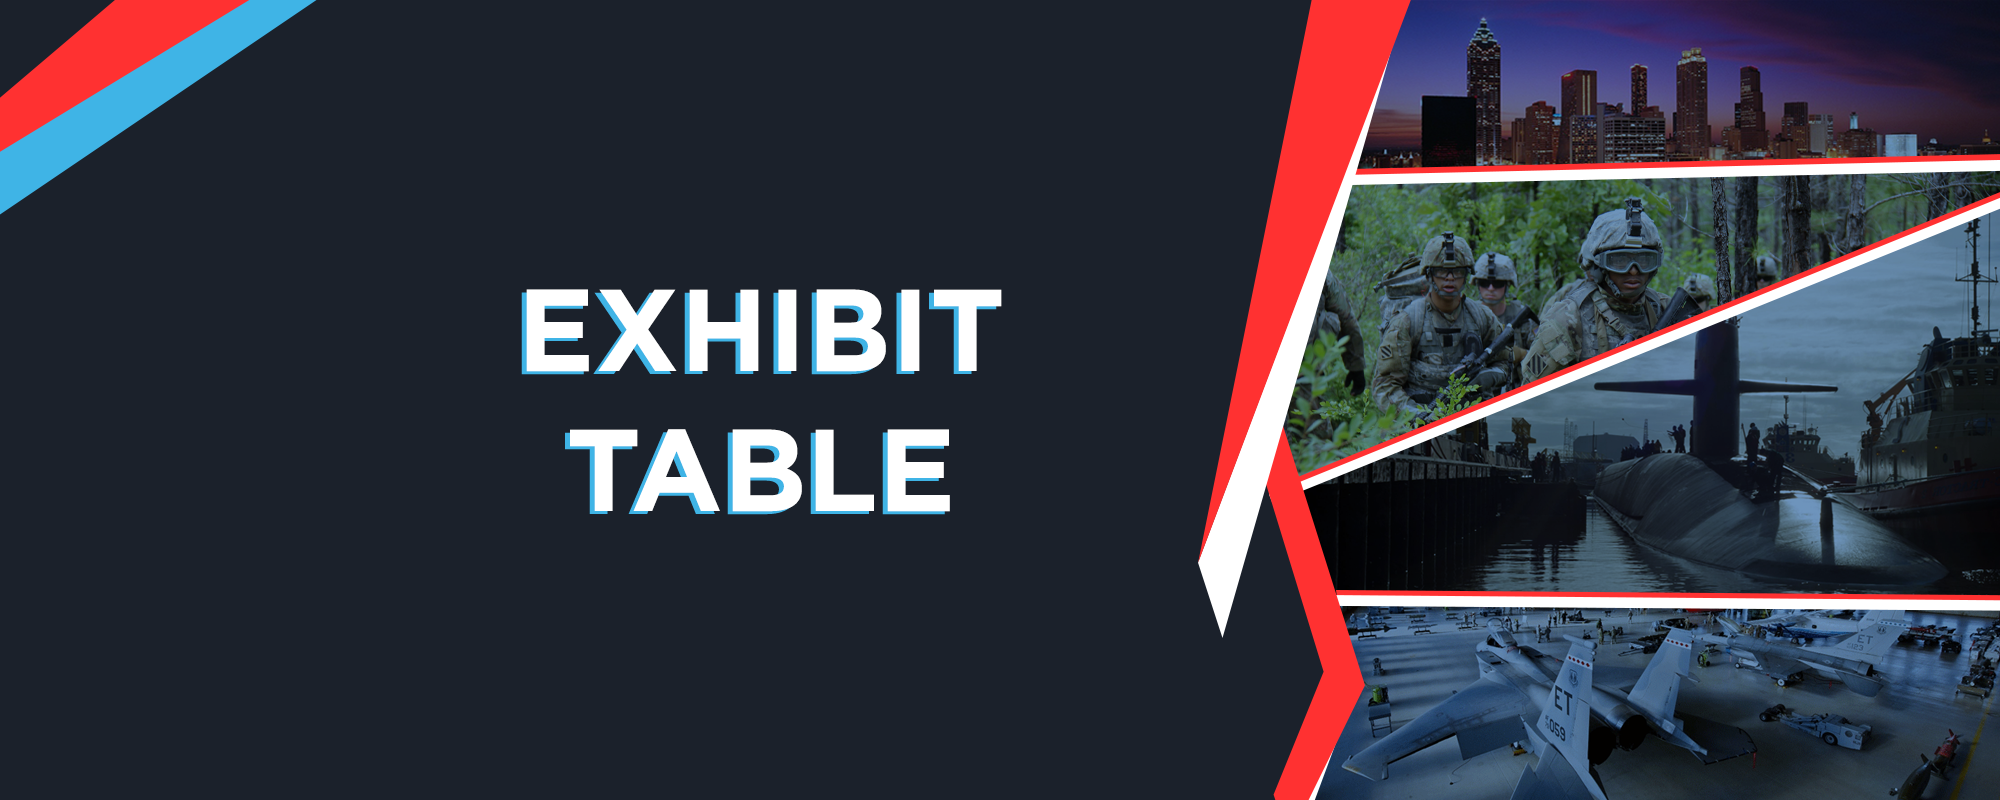
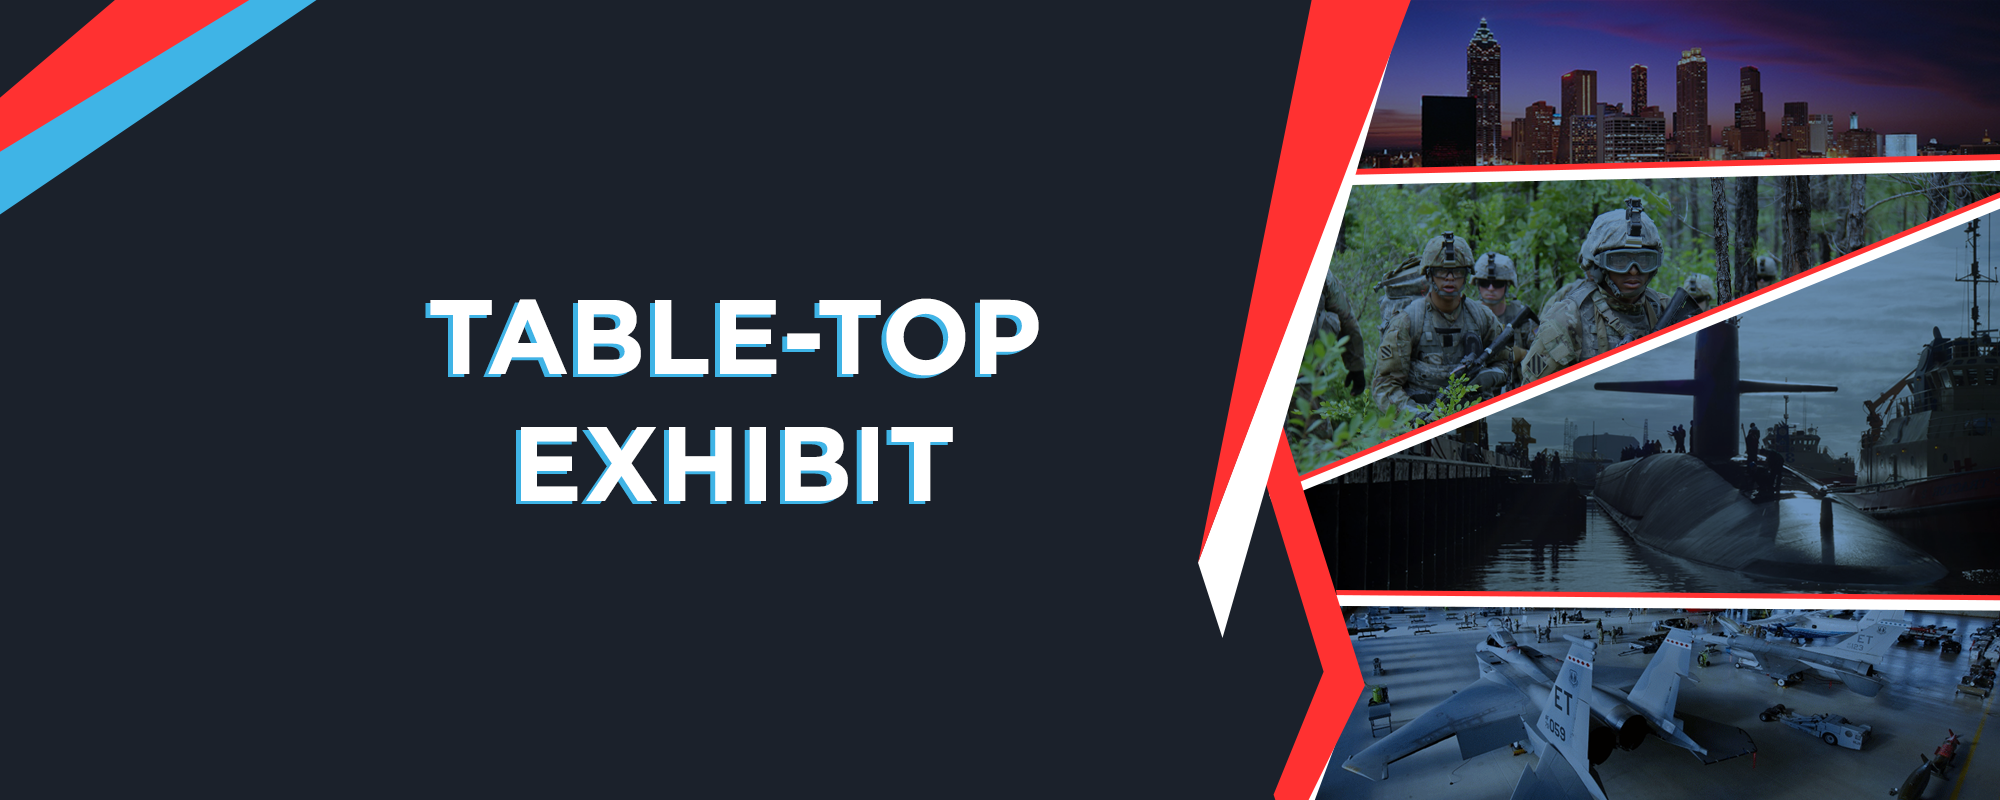
Updated schedules & registration perks

Changed region(s): [[0.217, 0.3438, 0.527, 0.4688], [0.248, 0.5312, 0.496, 0.6562]]

diff --git a/src/constants/schedules.tsx b/src/constants/schedules.tsx
@@ -109,36 +109,65 @@ export const SCHEDULES = [
         id: 2,
         schedule: [
             {
+                date: "March 17th, 2025",
+                items: [
+                    {
+                        time: "3:00 PM - 6:00 PM",
+                        title: "Exhibitor Set-up",
+                    },
+                ],
+            },
+            {
                 date: "March 18th, 2025",
                 items: [
                     {
                         time: "7:30 AM - 8:30 AM",
-                        title: "Registration & Networking Breakfast",
+                        title: "Registration & Networking Breakfast, On-Site Sign-up for Matchmaking Sessions",
                         // location: "Ballroom and Foyer",
                     },
                     {
-                        time: "8:30 AM - 12:30 PM",
+                        time: "8:30 AM - 10:00 AM",
+                        title: "General Sessions",
+                        // location: "Ballroom",
+                    },
+                    {
+                        time: "10:00 AM - 10:15 AM",
+                        title: "Networking Break",
+                        // location: "Fourth Estate Meeting Room"
+                    },
+                    {
+                        time: "10:15 AM - 12:30 PM",
                         title: "General Sessions",
                         // location: "Ballroom",
                     },
                     {
                         time: "12:30 PM - 1:30 PM",
-                        title: "Networking Lunch",
+                        title: "Networking Lunch for Speakers, Sponsors, Exhibitors, and Attendees",
                         // location: "Ballroom",
                     },
                     {
-                        time: "1:30 PM - 4:00 PM",
+                        time: "1:30 PM - 3:00 PM",
                         title: "General Sessions",
                         // location: "Ballroom",
                     },
                     {
-                        time: "4:00 PM - 5:00 PM",
+                        time: "3:00 PM - 3:15 PM",
+                        title: "Networking Break",
+                        // location: "Fourth Estate Meeting Room"
+                    },
+                    {
+                        time: "3:15 PM - 4:00 PM",
+                        title: "General Sessions",
+                        // location: "Ballroom",
+                    },
+                    {
+                        time: "4:00 PM - 5:30 PM",
                         title: "Matchmaking Sessions",
                         // location: "Fourth Estate Meeting Room"
                     },
                     {
-                        time: "5:00 PM - 7:00 PM",
-                        title: "VIP Networking Reception",
+                        time: "5:30 PM - 7:30 PM",
+                        title: "VIP Networking Reception with Speakers, Sponsors, Exhibitors, and VIP Attendees",
                         // location: "Fourth Estate Meeting Room"
                     },
                     
@@ -148,12 +177,42 @@ export const SCHEDULES = [
                 date: "March 19th, 2025",
                 items: [
                     {
-                        time: "8:00 AM - 9:00 AM",
-                        title: "Registration & Networking Breakfast",
+                        time: "7:30 AM - 8:30 AM",
+                        title: "Registration & Networking Breakfast, On-Site Signup for Matchmaking Sessions",
                         // location: "Ballroom and Foyer",
                     },
                     {
-                        time: "8:30 AM - 12:00 PM",
+                        time: "8:30 AM - 10:30 AM",
+                        title: "General Sessions",
+                        // location: "Ballroom",
+                    },
+                    {
+                        time: "10:30 AM - 10:45 AM",
+                        title: "Networking Break",
+                        // location: "Fourth Estate Meeting Room"
+                    },
+                    {
+                        time: "10:45 AM - 12:00 PM",
+                        title: "General Sessions",
+                        // location: "Ballroom",
+                    },
+                    {
+                        time: "12:00 PM - 1:00 PM",
+                        title: "Networking Lunch",
+                        // location: "Ballroom",
+                    },
+                    {
+                        time: "1:00 PM - 3:00 PM",
+                        title: "General Sessions",
+                        // location: "Ballroom",
+                    },
+                    {
+                        time: "3:00 PM - 3:15 PM",
+                        title: "Networking Break",
+                        // location: "Fourth Estate Meeting Room"
+                    },
+                    {
+                        time: "3:15 PM - 4:00 PM",
                         title: "General Sessions",
                         // location: "Ballroom",
                     },

diff --git a/src/constants/registrations.ts b/src/constants/registrations.ts
@@ -101,14 +101,12 @@ export const REGISTRATION_TYPES = [
                 title: "In-Person",
                 headerImage: "/registration-cards/2025SPDC/attendee-pass.png",
                 perks: [
-                    "Registration for 1 Person",
-                    "Access to All Event Sessions",
-                    "Access to Exhibit Hall",
-                    "Speaker Presentations",
-                    "Digital/Physical Copies of Agenda",
+                    "Registration for (1) Attendee Pass",
+                    "Access to all General Sessions",
+                    "Access to Exhibits",
+                    "Onsite Sign-up for Matchmaking Sessions",
                     "Breakfast & Buffet Lunch",
-                    "Access to Photos & Videos from Conference",
-                    "Access to Matchmaking Sessions",
+                    "Post-Event Access to Photos, Videos, and Speaker Presentation Slides",
                 ],
                 subtitle: "Includes:",
                 buttonText: "Register Now",
@@ -124,15 +122,13 @@ export const REGISTRATION_TYPES = [
                 title: "In-Person",
                 headerImage: "/registration-cards/2025SPDC/vip-attendee-pass.png",
                 perks: [
-                    "Registration for 1 Person",
-                    "Access to All Event Sessions",
-                    "Access to Exhibit Hall",
-                    "Speaker Presentations",
-                    "Digital/Physical Copies of Agenda",
+                    "Registration for (1) VIP Attendee Pass",
+                    "Access to all General Sessions",
+                    "Access to Exhibits",
+                    "Onsite Sign-up for Matchmaking Sessions",
                     "Breakfast & Buffet Lunch",
-                    "Access to Photos & Videos from Conference",
-                    "Access to Matchmaking Sessions",
-                    "Access to VIP Networking Reception on March 18th, 2025 from 5:00 PM - 7:00 PM",
+                    "Post-Event Access to Photos, Videos, and Speaker Presentation Slides",
+                    "<b>Access to VIP Networking Reception on March 18th, 2025 from 5:30 PM - 7:30 PM</b>",
                 ],
                 subtitle: "Includes:",
                 buttonText: "Register Now",
@@ -144,17 +140,13 @@ export const REGISTRATION_TYPES = [
             },
 
             {
-                title: "Exhibit Table",
+                title: "Table-Top Exhibit",
                 headerImage: "/registration-cards/2025SPDC/exhibit-table-pass.png",
                 perks: [
-                    "Registration for 2 People",
-                    "2 VIP Networking Reception Passes",
-                    "6' Exhibit Table in Exhibit Hall",
-                    "Access to All Event Sessions",
-                    "Speaker Presentations",
-                    "Digital/Physical Copies of Agenda",
-                    "Breakfast & Buffet Lunch",
-                    "Access to Photos & Videos from Conference",
+                    "Registration for (1) VIP Attendee Pass",
+                    "Additional Exhibitor Passes can be purchased at a Discounted Rate of $395 each",
+                    "Table-Top Exhibit",
+                    "Post-Event Access to Photos, Videos, and Speaker Presentation Slides",
                 ],
                 subtitle: "Includes:",
                 buttonText: "Register Now",
@@ -169,13 +161,12 @@ export const REGISTRATION_TYPES = [
                 title: "Government/Military Personnel Registration",
                 headerImage: "/registration-cards/2025SPDC/gov-pass.png",
                 perks: [
-                    "Registration for 1 Person",
-                    "Access to All Event Sessions",
-                    "Access to Exhibit Hall",
-                    "Speaker Presentations",
-                    "Digital/Physical Copies of Agenda",
+                    "Registration for (1) Attendee Pass",
+                    "Access to all General Sessions",
+                    "Access to Exhibits",
+                    "Onsite Sign-up for Matchmaking Sessions",
                     "Breakfast & Buffet Lunch",
-                    "Access to Photos & Videos from Conference",
+                    "Post-Event Access to Photos, Videos, and Speaker Presentation Slides",
                 ],
                 subtitle: "Includes:",
                 buttonText: "Register Now",

diff --git a/src/app/components/RegistrationOptions.tsx b/src/app/components/RegistrationOptions.tsx
@@ -53,7 +53,7 @@ const RegistrationOptions = ({ event }: RegistrationProps) => {
                 {isEarlyBird && (
                     <div className="bg-green-100 border border-green-400 text-green-700 px-4 py-3 rounded relative mb-6 text-xl mx-4 text-center" role="alert">
                         <strong className="font-bold">Early-bird pricing available!</strong>
-                        <span className="block sm:inline"> Register before {deadlineDate}.</span>
+                        {/* <span className="block sm:inline"> Register before {deadlineDate}.</span> */}
                     </div>
                 )}
 

diff --git a/src/app/components/RegistrationCard.tsx b/src/app/components/RegistrationCard.tsx
@@ -73,7 +73,8 @@ const RegistrationCard = ({ item }: RegistrationProp) => {
                 <div className="mt-4">
                     {isPaid && isEarlyBird && (
                         <p className="text-md font-semibold text-center text-green-600 mb-2">
-                            Early-bird price! Increases to {item.regularPrice} after {deadlineDate}
+                            Early-bird price! 
+                            {/* Increases to {item.regularPrice} after {deadlineDate} */}
                         </p>
                     )}
                     {item.receptionPrice && (
